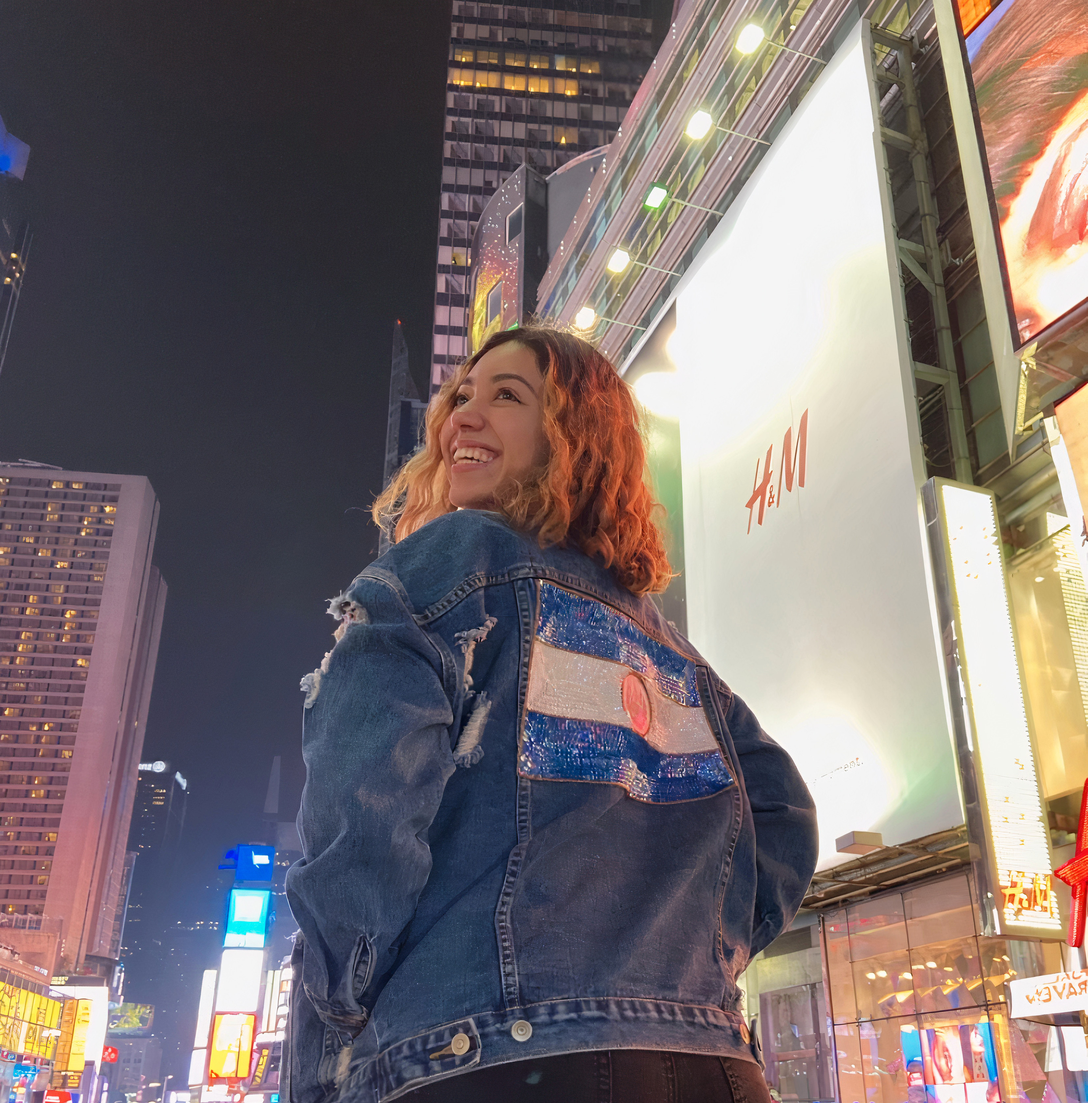
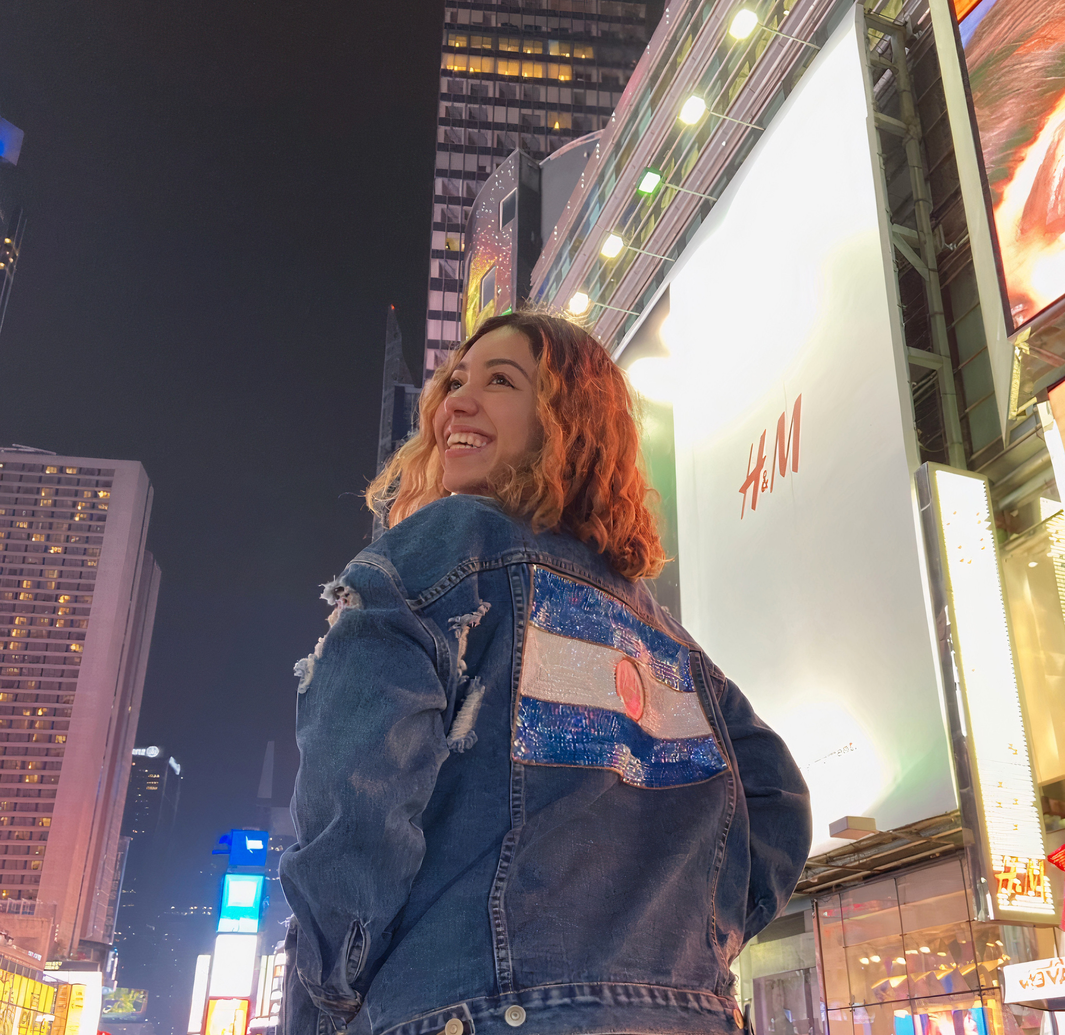
updated photo size

diff --git a/src/pages/Home/index.tsx b/src/pages/Home/index.tsx
@@ -164,7 +164,7 @@ const Home: React.FC = () => {
                         <a href='#about' className='scroll-link text-left font-openSans text-xl font-semibold'>Learn more about me</a>
                         <a href='#about' className='scroll-link'>
                             <svg xmlns="http://www.w3.org/2000/svg" viewBox="0 0 24 24" fill="currentColor"
-                                className="size-6 self-end">
+                                className="size-6 self-end motion-safe:animate-bounce">
                                 <path fill-rule="evenodd" d="M12 2.25c-5.385 
                                 0-9.75 4.365-9.75 9.75s4.365 9.75 9.75 9.75 
                                 9.75-4.365 9.75-9.75S17.385 2.25 12 2.25Zm-.53 
@@ -186,8 +186,9 @@ const Home: React.FC = () => {
                         objectFit: 'cover',
                         opacity: loaded ? 1 : 0,
                         visibility: loaded ? 'visible' : 'hidden',
-                        transition: 'opacity .5s ease-in-out',
+                        transition: 'opacity 1s ease-in-out',
                     }}
+                    
                 //   className={`${loaded ? 'visible' : 'hidden'}`}
                 >
 
@@ -196,12 +197,12 @@ const Home: React.FC = () => {
 
 
             </div>
-            <div id='about' ref={aboutRef}>
-                <div className='flex flex-col mx-32 mt-10 h-screen'>
+            <div id='about' className='grid 'ref={aboutRef}>
+                <div className='flex flex-col mx-32 mt-10 h-screen '>
                     <h2 className='font-inter text-accent text-start text-5xl font-bold mt-10'>It's so nice to meet you!</h2>
-                    <div className='grid grid-cols-2 gap-10 mt-10'>
-                        <img src={nyc} loading='lazy' />
-                        <p className='font-openSans text-xl text-left content-center'>I’m a Salvadoran American passionate about being
+                    <div className='flex flex-column gap-10 mt-10 content-center space-between align-center'>
+                        <img className='size-3/4'src={nyc} loading='lazy' />
+                        <p className='font-openSans text-2xl text-left content-start'>I’m a Salvadoran American passionate about being
                             <span className='font-semibold'> playful</span>, <span className='font-semibold'> curious</span>, and
                             <span className='font-semibold'> bringing people together</span>.<br></br><br></br>
                             Growing up, I had no clear picture of the future I was working toward.

diff --git a/src/pages/Home/home.css b/src/pages/Home/home.css
@@ -26,3 +26,22 @@
   .animate-blink {
     animation: blink 0.8s step-end infinite;
   }
+
+  /* @keyframes fadeUpDown {
+    0% {
+      opacity: 0;
+      transform: translateY(20px);
+    }
+    50% {
+      opacity: 1;
+      transform: translateY(0);
+    }
+    100% {
+      opacity: 0;
+      transform: translateY(-20px);
+    }
+  }
+  
+  .image {
+    animation: fadeUpDown 3s ease-in-out;
+  } */
